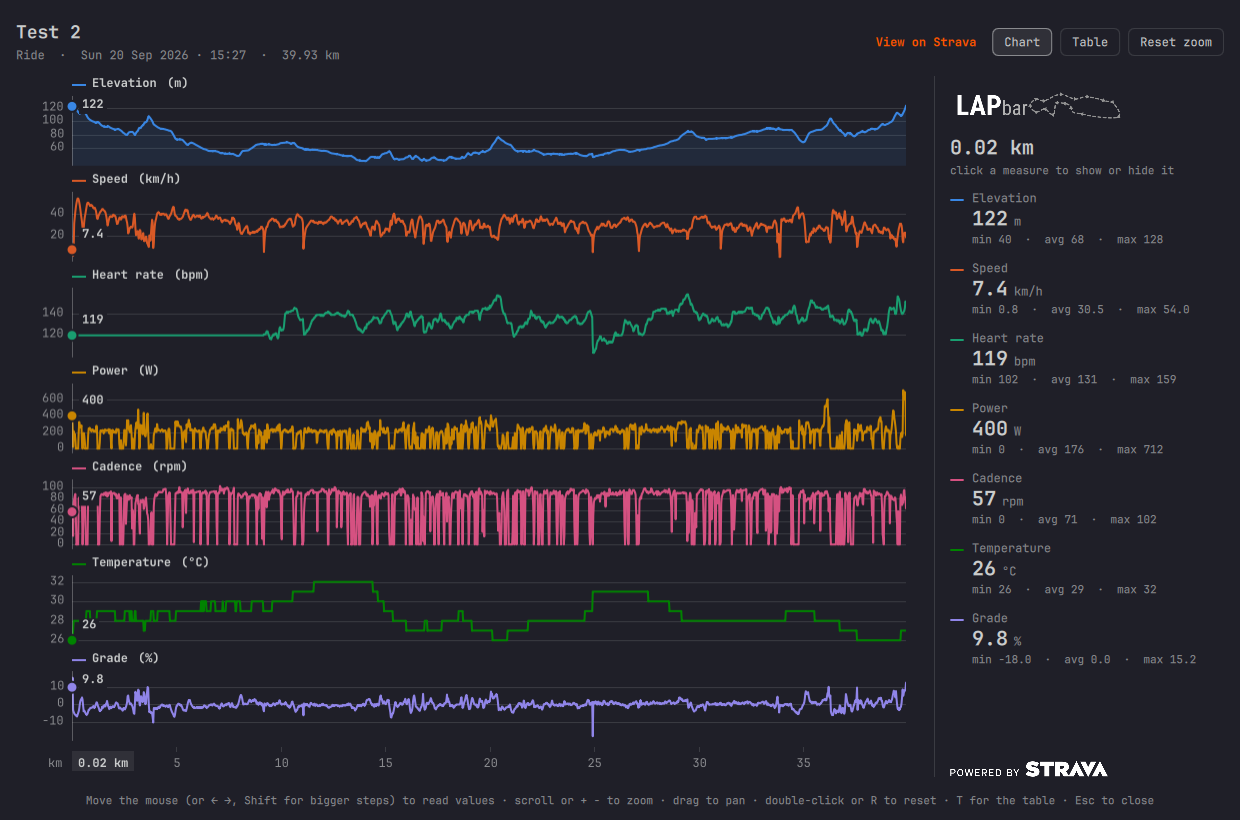
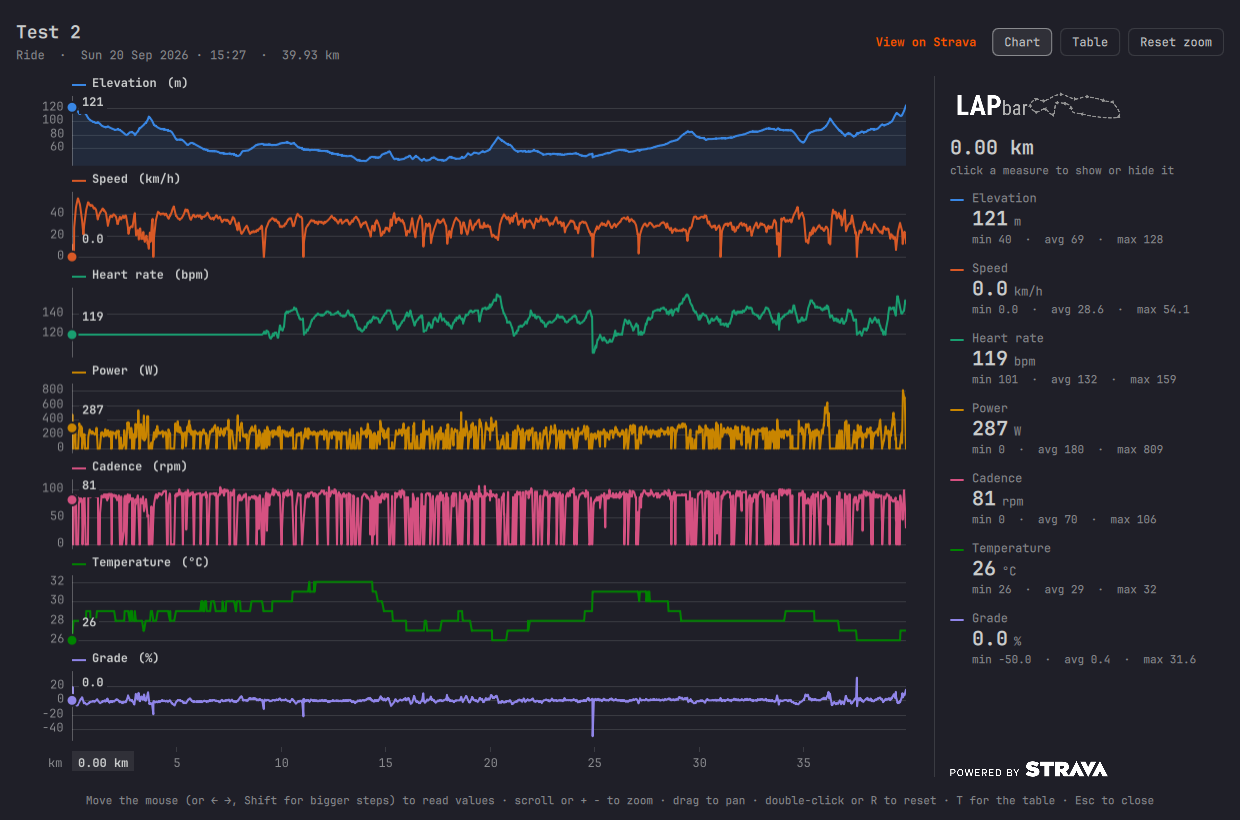
README, in-app guide and screenshots for the current UI: every menu and window
New: the ⋮ menu with each state (interval, FTP, About, reset question), the how-to and data windows, a retaken
chart window; the intro, popup guide, data locations, troubleshooting and summary shape are brought up to date. The
menu no longer runs past its column (the About card was cut off) and its GitHub links are not in Strava's orange.

diff --git a/Panel.qml b/Panel.qml
@@ -1099,7 +1099,8 @@ Panel {
             anchors.top: parent.bottom
             anchors.right: parent.right
             anchors.topMargin: Style.space(4)
-            width: root.aboutOpen ? Style.space(350) : ((root.intervalOpen || root.ftpOpen) ? Style.space(320) : Style.space(270))
+            // never wider than the column it hangs in, so nothing is cut off at the popup's edge
+            width: Math.min(leftCol.width, root.aboutOpen ? Style.space(350) : ((root.intervalOpen || root.ftpOpen) ? Style.space(320) : Style.space(270)))
             height: menuColumn.implicitHeight + Style.space(12)
             radius: Style.space(6)
             color: Color.background
@@ -1403,7 +1404,8 @@ Panel {
                   font.pixelSize: Style.font.bodySmall
                 }
 
-                Row {
+                Flow {                                              // wraps, so a narrow card never cuts a link off
+                  width: parent.inner
                   spacing: Style.space(14)
 
                   Repeater {
@@ -1416,7 +1418,7 @@ Panel {
                     Text {
                       required property var modelData
                       text: modelData.label + " \u2197"
-                      color: root.stravaOrange
+                      color: Color.accent                                   // GitHub links: not Strava's orange, which is for Strava
                       font.family: root.fontFamily
                       font.pixelSize: Style.font.bodySmall
                       font.bold: true

diff --git a/tests/test_help_logic.py b/tests/test_help_logic.py
@@ -45,10 +45,11 @@ def test_image_addresses_are_resolved_against_the_docs_folder():
     assert js('imageSource("/x", "https://example.org/p.png")') == "https://example.org/p.png"
 
 
-def test_the_real_help_text_splits_into_text_and_its_five_pictures():
+def test_the_real_help_text_splits_into_text_and_its_eight_pictures():
     real = json.dumps((LOGIC.parent.parent / "docs" / "help.md").read_text())
     blocks = js(f"splitMarkdown({real})")
     images = [b["src"] for b in blocks if b["type"] == "image"]
-    assert images == ["screenshots/popup-guide.png", "screenshots/activity-window.png", "screenshots/fitness.png", "screenshots/chart.png",
-                      "screenshots/data-window.png"]
+    assert images == ["screenshots/popup-guide.png", "screenshots/menu-main.png", "screenshots/menu-interval.png",
+                      "screenshots/menu-ftp.png", "screenshots/activity-window.png", "screenshots/fitness.png",
+                      "screenshots/chart.png", "screenshots/data-window.png"]
     assert all((LOGIC.parent.parent / "docs" / src).is_file() for src in images)

diff --git a/tests/test_panel.py b/tests/test_panel.py
@@ -159,3 +159,7 @@ def test_the_open_chart_actions_are_small_blue_rounded_buttons():
     assert "onClicked: root.openCharts()" in PANEL.split("TinyButton {")[1][:400]
     assert "onClicked: root.openFitnessChart()" in PANEL.split("TinyButton {")[2][:500]
     assert 'View on Strava"' in PANEL and "color: root.stravaOrange" in PANEL          # the Strava link stays a plain orange link
+
+
+def test_the_menu_is_never_wider_than_the_column_it_hangs_in():
+    assert "width: Math.min(leftCol.width, root.aboutOpen" in PANEL            # the About card used to be cut off at the edge

diff --git a/README.md b/README.md
@@ -5,11 +5,13 @@
   </picture>
 </h1>
 
-A Quickshell status bar widget for Omarchy that shows your Strava activity in the bar: the latest activity,
-totals for today, this week, this month and this year (per sport, with total climb), a route trace, kudos and
-records by name, a calendar that pages back through every year you have, how this week compares with last week,
-fitness, fatigue and form estimated on your own computer, and charts of every activity's time series. Your data
-is stored locally, credentials stay in your system keyring, and nothing is sent anywhere but to Strava.
+A Quickshell status bar widget for Omarchy that puts your Strava in the bar: the latest activity, how many **kudos and
+PRs** it got, and popups that say **who commented and what they wrote**. Open it for totals per sport (day, week, month,
+year), a route trace, a calendar that pages back through every year you have, how this week compares with last week, and
+**fitness, fatigue and form** worked out on your own computer, including what tomorrow's form will be with today's
+work counted. Charts show every recorded sample of any ride, a details window holds the comments, records and kudos,
+and an optional coach nudges you off the chair (Silent, Motivational or Drill sergeant, and never on a recovery week).
+Your data is stored locally, credentials stay in your system keyring, and nothing is sent anywhere but to Strava.
 
 Not affiliated with or endorsed by Strava.
 
@@ -23,9 +25,9 @@ Not affiliated with or endorsed by Strava.
   <img src="docs/screenshots/chart.png" alt="The chart window for the same ride: elevation, speed, heart rate, power, cadence, temperature and grade" width="720">
 </p>
 
-*The popup for a ride (records by name, kudos, route, stats, fitness and form, the skip and motivational-quote
-controls, calendar and totals) and the chart window for the same ride, one plot per measure with a shared cursor.
-The details window with the comments, records and kudos is shown further down.*
+*The popup for a ride (route, stats, fitness and form with tomorrow's form, the skip and motivational-quote controls,
+calendar and totals) and the chart window for the same ride, one plot per measure with a shared cursor. Every menu and
+window is shown further down.*
 
 ## Getting started
 
@@ -139,9 +141,11 @@ stops working, so this is one to check as that date approaches.
 | Client Secret, sign-in tokens | your **system keyring** (GNOME Keyring / libsecret) | encrypted by the keyring, unlocked with your login |
 | ... if there is no keyring | `~/.local/state/lapbar/secrets.json` | mode 600 in a mode 700 folder; the setup tells you when this is used |
 | Client ID (not secret) | `~/.config/lapbar/env` | mode 600 |
-| Cached summary for the widget (this year's activities, route shapes, names of people who gave kudos) | `~/.cache/lapbar/cache.json` | mode 600 |
-| Chart-ready time series (shrunk copies, rebuilt from the archive without a request) | `~/.cache/lapbar/streams/` | mode 600 in a mode 700 folder |
-| **Your data, worth keeping:** the complete time series with GPS, older years, records and kudos names | `~/.local/share/lapbar/` (`raw/`, `history/`, `details/`) | mode 600 in mode 700 folders; **contains your routes**, so keep it private |
+| Cached summary for the widget (this year's activities, route shapes, names of people who gave kudos, and the comments they wrote) | `~/.cache/lapbar/cache.json` | mode 600 |
+| Chart-ready time series (a small overview per activity, and the file of the few rides you opened last; rebuilt from the archive without a request) | `~/.cache/lapbar/streams/` | mode 600 in a mode 700 folder |
+| **Your data, worth keeping:** the complete time series with GPS, older years, records, kudos names and comments, the days you skipped | `~/.local/share/lapbar/` (`raw/`, `history/`, `details/`, `excuses.json`) | mode 600 in mode 700 folders; **contains your routes**, so keep it private |
+| Small state: the mute switch, the request counters, what the coach last did, your Strava id (to recognise your own comments) | `~/.local/state/lapbar/` | private |
+| Preferences (history limit, coach tone, quiet hours, export options) | `~/.config/lapbar/prefs.json` | mode 600 |
 
 The cache can always be deleted: it is rebuilt for free. The data folder cannot be rebuilt without asking Strava
 again (one request per activity), so it is not deleted by "Reset account" (`lapbar reset --all` removes it).
@@ -173,6 +177,8 @@ configuration, and only when you change one from its menu.
 | "Cannot reach your keyring" | The keyring is locked or not running. Log in again (or unlock it) and refresh. `lapbar status` shows details |
 | Widget stays on "set up" | Run `lapbar status` and `lapbar fetch --print` in a terminal to see the exact message |
 | "rate limit" | Strava's limits were hit; LapBar keeps showing the last data and retries |
+| No popups for new kudos or comments | Alerts are muted (the popup says "Kudos and comment alerts: muted": click it), or Omarchy's do-not-disturb is on. Only your 30 newest activities are watched, and a refresh runs every 15 minutes by default, so a popup can take that long |
+| A popup shows a comment but clicking it does nothing | Click the popup itself (Omarchy's notifications draw no buttons). It opens the activity in your browser with `xdg-open`, so a default browser must be set |
 
 ## Planned: official Strava registration
 
@@ -187,6 +193,10 @@ up to date, and the own-app mode described above will keep working either way.
 **The same guide is inside the app:** open the popup's menu (⋮) and choose **How to use…** for this page, with the
 pictures, in a window of its own (arrow keys, Page Up/Down and the mouse wheel scroll it). It is `docs/help.md`,
 drawn by Qt's own Markdown support, so it needs no extra library and no network.
+
+<p align="center">
+  <img src="docs/screenshots/howto-window.png" alt="The how-to window: the guide with its pictures, in a window of its own" width="560">
+</p>
 
 ### The bar button
 
@@ -215,22 +225,23 @@ alerts.
 
 1. **The ride.** Its name, sport and date. The popup shows your latest ride; after you pick another day in the calendar
    (16), a *Back to latest activity* link appears here.
-2. **⋮ Menu.** Refresh now, mute kudos alerts, refresh interval, FTP, Manage data, credentials, Strava API
-   settings, About, Reset account (see the table below).
+2. **⋮ Menu.** Refresh now, mute alerts, refresh interval, FTP, Manage data, How to use, credentials, Strava API
+   settings, About, Reset account (see "The ⋮ menu" below).
 3. **⟳ Refresh now.** Opening the popup also refreshes if the data is more than two minutes old.
 4. **Records, kudos & comments.** One line with the counts (`7 achievements · 15 kudos · 2 comments`). Click it to open
    the details window with the comments, the medals and cups by name, and who gave the kudos (see "The details window").
 5. **The route.** The ride's outline, with the start marked.
 6. **View on Strava** opens the activity's page on Strava in your browser.
-7. **Open charts ↗** opens the chart window for this ride: elevation, speed, heart rate, power, cadence, temperature
+7. **Open charts ↗** (a small blue button) opens the chart window for this ride: elevation, speed, heart rate, power, cadence, temperature
    and grade (see "Charts window").
 8. **The ride's numbers.** Distance, time, climb, speed (or pace), power, heart rate and cadence: only what exists for
    the sport. Just below, `2 kudos · 2 PRs` is the same count the bar button shows.
 9. **Storage and requests.** How many of your activities have their full data stored on this computer, and how many of
    Strava's 1,000 daily requests are used today. The *Powered by Strava* logo is required by Strava.
 10. **Kudos and comment alerts.** On or muted; click to switch.
-11. **Fitness, fatigue and form:** three numbers, your FTP if set, a plain-words status and the plot. Hover any day.
-12. **Open chart ↗** opens the full-size fitness chart (see "Fitness, fatigue and form").
+11. **Fitness, fatigue and form:** three numbers, your FTP if set, `tomorrow -14` under Form (tomorrow's form with today's
+    work counted), a plain-words status and the plot. Hover any day.
+12. **Open chart ↗** (button) opens the full-size fitness chart (see "Fitness, fatigue and form").
 13. **Training load versus last week.** A bar showing how this week so far compares with last week up to the same moment.
 14. **Skipping today?** Five buttons (I'm tired, Bad weather, No time, Not feeling well, Planned rest day). The one
     you pick is marked on the calendar (16), and the coach leaves you alone that day.
@@ -248,13 +259,38 @@ The details window that item 4 opens (the names and comments here are made up):
   <img src="docs/screenshots/activity-window.png" alt="The details window: the comments first, with a Comment on Strava link below them, then the records and who gave kudos, and the Powered by Strava logo at the bottom" width="560">
 </p>
 
+### The ⋮ menu
+
+The three dots next to the ride's name open the menu. Every entry:
+
+<p align="center">
+  <img src="docs/screenshots/menu-main.png" alt="The menu: Refresh now, Mute kudos and comment alerts, Refresh every, FTP, Manage data, How to use, Update credentials or sign in, Open Strava API settings, About LapBar, Reset account" width="290">
+  <img src="docs/screenshots/menu-interval.png" alt="The refresh interval choices, each with the requests per day it uses, and how the request allowance is shared" width="330">
+  <img src="docs/screenshots/menu-ftp.png" alt="The FTP setting: a stepper in watts, the estimate from your rides, Save and Clear FTP" width="330">
+  <img src="docs/screenshots/menu-about.png" alt="The About card: version, licence, links to the project, contributing and issues, and the Powered by Strava logo" width="330">
+  <img src="docs/screenshots/menu-reset.png" alt="The question that comes before Reset account removes anything" width="290">
+</p>
+
+| Entry | What it does |
+|---|---|
+| **Refresh now** | reads Strava right away (also ⟳ next to the ride's name, or a middle-click on the bar button) |
+| **Mute / Unmute kudos and comment alerts** | switches LapBar's popups for new kudos and comments off or on (also a right-click on the bar button) |
+| **Refresh every …** | opens the interval choices: every minute to every hour, default 5 minutes shown here; each row says roughly how many requests a day it uses, in orange when the timer alone would reach 60% of Strava's daily allowance |
+| **FTP: … W** | a stepper in watts (0 means unknown), **Estimate from my rides** (see "How Estimate from my rides works"), **Save** and **Clear FTP** |
+| **Manage data …** | the data window (see "The data window") |
+| **How to use …** | this guide, in a window of its own |
+| **Update credentials or sign in …** | runs the guided setup again in a terminal, to change the Client ID or Secret or sign in again |
+| **Open Strava API settings** | opens strava.com/settings/api in your browser |
+| **About LapBar** | the version, the licence, links to the project, and Strava's credit |
+| **Reset account …** | asks first, then removes your credentials, sign-in and cache; your downloaded activities stay unless you run `lapbar reset --all` |
+
 **I want to...**
 
 | I want to | Where |
 |---|---|
 | see how many **kudos and PRs** my latest ride got | the bar button's thumbs-up and medal frame (or its tooltip); in the popup, 4 and 8 |
 | read the comments, see who gave kudos, and which records I set | Records, kudos & comments (4), which opens the details window |
-| be told about new kudos and comments | automatic; mute with 10, a right-click on the bar button or **⋮ → Mute kudos alerts**; Omarchy's do-not-disturb silences them too |
+| be told about new kudos and comments | automatic; mute with 10, a right-click on the bar button or **⋮ → Mute kudos and comment alerts**; Omarchy's do-not-disturb silences them too |
 | refresh now | ⟳ (3), **⋮ → Refresh now**, or a middle-click on the bar button |
 | change how often it refreshes | **⋮ → Refresh every…** (1 minute to 1 hour; default 15 minutes) |
 | look at an older ride | the calendar (16); *Back to latest activity* (1) returns |
@@ -306,7 +342,7 @@ stored per refresh), `ftp` (0 to 600; also in the menu) and `historyYears` (0 to
 - **Training load** compares this week so far with last week *up to the same moment of the week*, and shows
   what is still needed to beat last week's total. `loadMetric` chooses the measure: `time` (default, works for
   every sport), `distance`, or `effort` (Strava's Relative Effort; needs a heart-rate device, falls back to time).
-- **Kudos notifications** are sent after a refresh finds new kudos, as a cup-icon notification naming who gave
+- **Kudos notifications** are sent after a refresh finds new kudos, as a popup with a thumbs-up naming who gave
   them (Strava returns first name and last initial). Only the 30 newest activities (about a month of riding) are watched; the first run
   only records a baseline. The names are kept in the local cache (`kudoers`) and never leave your machine.
 - **Every kudos and comment popup is about one activity and ends with a *View on Strava* link in Strava's orange** that
@@ -513,10 +549,17 @@ any request, if a later version changes how they are processed.
       "load": {"this_week": {"moving_time_s": 0, "distance_km": 0.0, "effort": 0}, "last_week": {...},
                "last_week_same_point": {...}, "days_left": 2, "has_effort": true},
       "kudos_seen": {"<activity id>": 3}, "kudoers": {"<activity id>": ["Ana K.", "Bo M."]},
-      "kudos_events": [{"activity_id": 1, "name": "...", "count": 1, "total": 3, "from": ["Ana K."]}],
+      "comments_seen": {"<activity id>": 2},
+      "comment_texts": {"<activity id>": [{"id": 1, "who": "Ana K.", "text": "...", "at": "2026-09-20T10:12:00Z"}]},
+      "fitness": {"current": {"date": "...", "fitness": 20.4, "fatigue": 30.3, "form": -14.4, "status": "building"},
+                  "tomorrow": {"date": "...", "form": -10.1, "status": "balanced"}, "days": [...]},
+      "coach": {"id": "...", "tone": "motivational", "text": "...", "reason": "..."} or null,
       "days": {"2026-09-18": {"count": 1, "distance_km": 36.54, "moving_time_s": 4409, "families": ["ride"]}},
       "activities": [ {same fields as latest, minus nulls, route of 60 points, no elevation_profile}, ... ]
     }
+
+New kudos and comments are not part of the summary that is cached: a refresh delivers each as a popup once
+(`lapbar/alerts.py`) and forgets it, so nothing is ever announced twice.
 
 `days` (active days this year, keyed by local date) drives the calendar shading; `activities` (newest
 first) lets a click on a calendar day show that activity's details in the popup.
@@ -557,6 +600,10 @@ to run the real `secret-tool` fails the test. Run them with a venv that has `pyt
     lapbar streams <activity id> --refresh   # download the series again
     lapbar details <activity id>         # the ride's records, kudos names and comments, as the details window asks for them (JSON)
     lapbar activity <activity id>        # open the details window
+    lapbar fitness                       # open the fitness chart (from what is already fetched)
+    lapbar howto                         # open the how-to window
+    lapbar coach                         # the coach's state as JSON (--test shows a sample popup)
+    lapbar excuse tired                  # mark today as skipped (tired, weather, time, unwell, rest, or clear)
     lapbar archive --limit 100           # store the full data (with GPS) of 100 more activities now
     lapbar manage                        # the data window: history stored, fetching by day, the date limit
     lapbar history --sync                # download the older years for the calendar now (--refresh: again, --years N)

diff --git a/docs/help.md b/docs/help.md
@@ -34,14 +34,15 @@ Click the button. Each numbered part is explained below the picture.
 4. **Records, kudos & comments.** One line with the counts. Click it to open the details window (see below).
 5. **The route.** The ride's outline, with the start marked.
 6. **View on Strava** opens the activity's page in your browser.
-7. **Open charts** opens the chart window for this ride.
+7. **Open charts** (a small blue button) opens the chart window for this ride.
 8. **The ride's numbers.** Distance, time, climb, speed (or pace), power, heart rate and cadence: only what exists for
    the sport. Just below, "2 kudos, 2 PRs" is the same count the bar button shows.
 9. **Storage and requests.** How many of your activities have their full data stored on this computer, and how many of
    Strava's 1,000 daily requests are used today.
 10. **Kudos and comment alerts.** On or muted; click to switch.
-11. **Fitness, fatigue and form.** Three numbers, your FTP if set, a plain-words status and the plot. Hover any day.
-12. **Open chart** opens the full-size fitness chart.
+11. **Fitness, fatigue and form.** Three numbers, your FTP if set, `tomorrow -14` under Form (tomorrow's form with today's
+    work counted), a plain-words status and the plot. Hover any day.
+12. **Open chart** (a small blue button) opens the full-size fitness chart.
 13. **Training load versus last week.** How this week so far compares with last week up to the same moment.
 14. **Skipping today?** Five buttons (I'm tired, Bad weather, No time, Not feeling well, Planned rest day). The one
     you pick is marked on the calendar (16), and the coach leaves you alone that day.
@@ -51,6 +52,26 @@ Click the button. Each numbered part is explained below the picture.
     the single ones by a month; the triangle folds it.
 17. **Totals** for today, this week, this month and this year, per sport, with the total climb.
 18. **Powered by Strava**, in the bottom-right corner.
+
+## The menu
+
+The three dots next to the ride's name open the menu.
+
+![The menu](screenshots/menu-main.png)
+
+- **Refresh now**, and **Mute / Unmute kudos and comment alerts**.
+- **Refresh every ...** opens the interval choices, from every minute to every hour. Each row says how many of
+  Strava's daily requests it uses.
+
+![The refresh interval choices](screenshots/menu-interval.png)
+
+- **FTP** is a stepper in watts. **Estimate from my rides** fills it in from your rides; **Save** keeps it.
+
+![The FTP setting](screenshots/menu-ftp.png)
+
+- **Manage data ...** opens the data window, **How to use ...** this guide, **Update credentials or sign in ...** the
+  guided setup, **Open Strava API settings** your app's page on Strava, **About LapBar** the version and the links.
+- **Reset account ...** asks first, then removes your credentials, sign-in and cache. Your downloaded activities stay.
 
 ## Where do I find...
 
